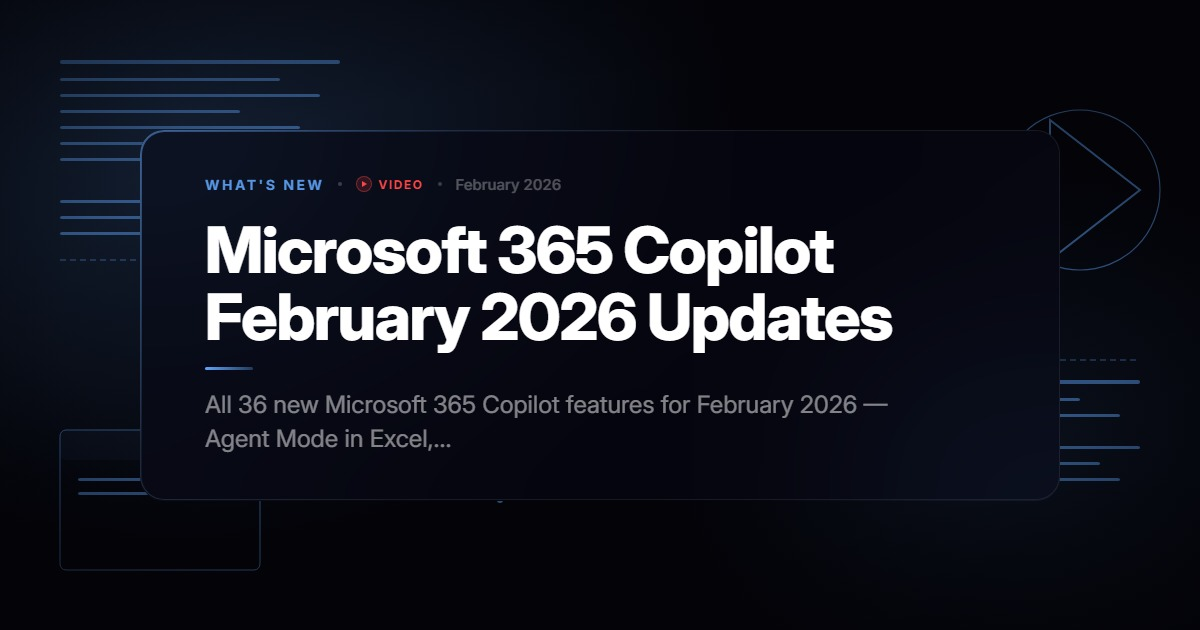
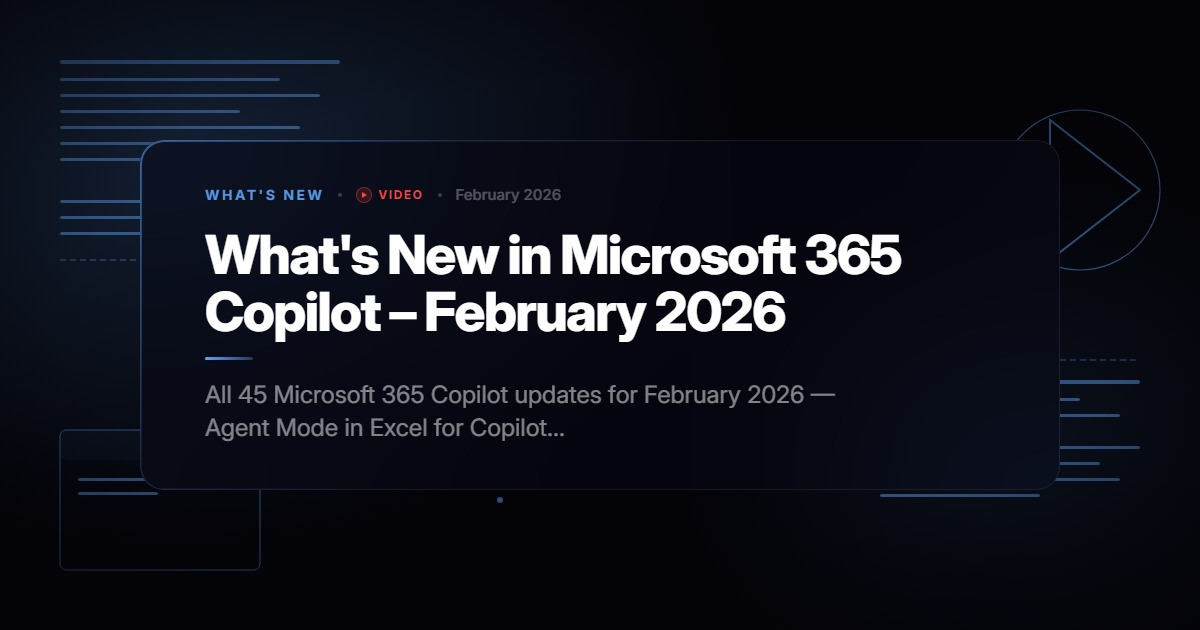
seo: Add FAQPage schema, lastmod, OG images for all 4 What's New posts
- Added FAQ structured data (4-5 questions each) for Google rich snippets
- Added lastmod: 2026-04-30 for dateModified in BlogPosting schema
- Generated April OG image (was missing)
- Regenerated Jan/Feb/Mar OG images (titles changed from enrichment)

diff --git a/content/blog/microsoft-365-copilot-april-2026-updates.md b/content/blog/microsoft-365-copilot-april-2026-updates.md
@@ -2,6 +2,7 @@
 title: "What's New in Microsoft 365 Copilot – April 2026 | 41 Updates You Shouldn't Miss"
 description: "All 41 Microsoft 365 Copilot updates for April 2026 — PowerPoint Agent, Excel Agent, Hey Copilot wake word, MCP connectors, Planner Agent, and more."
 date: 2026-04-29
+lastmod: 2026-04-30
 youtube_id: ""
 card_tag: "What's New"
 tag_class: "ai"
@@ -10,6 +11,17 @@ tags:
   - microsoft-365
   - copilot
   - news
+faq:
+  - question: "What's new in Microsoft 365 Copilot in April 2026?"
+    answer: "April 2026 brings 41 updates including PowerPoint Agent, Excel Agent, Word Agent, Planner Agent, Hey Copilot wake word on Windows, custom MCP connectors, Purview DLP for prompts, eight new third-party Copilot Connectors, and broader Copilot Dashboard access for smaller tenants."
+  - question: "What is the Hey Copilot wake word?"
+    answer: "Say 'Hey Copilot' to activate real-time voice conversations with the M365 Copilot app on Windows. It activates only when called, respects your organisation's compliance settings, and lets you draft content, analyse data, and get insights without switching windows."
+  - question: "What are MCP connectors in Microsoft 365 Copilot?"
+    answer: "MCP (Model Context Protocol) connectors allow admins to configure custom, real-time federated connections in the Microsoft 365 admin center. Unlike traditional Graph connectors that index data, MCP connectors query external systems on the fly with users authenticating directly."
+  - question: "Do I need a paid licence for the new Copilot agents?"
+    answer: "The PowerPoint Agent, Excel Agent, and Word Agent are available to Microsoft 365 users with or without a paid Copilot licence, though your admin must enable them. The Planner Agent requires a Copilot licence."
+  - question: "What Copilot Connectors were added in April 2026?"
+    answer: "Eight new connectors: GitLab Issues, Asana, Monday.com, Guru, Coda, Zendesk Help Center, Egnyte, and Amazon S3."
 ---
 
 April 2026 is a massive month for Microsoft 365 Copilot with **41 updates** — including three brand-new productivity agents, a wake word for hands-free access, MCP connector support for admins, and a wave of new third-party Copilot Connectors. Some features first appeared in earlier months and are now broadly available or expanded.

diff --git a/content/blog/microsoft-365-copilot-march-2026-updates.md b/content/blog/microsoft-365-copilot-march-2026-updates.md
@@ -2,6 +2,7 @@
 title: "What's New in Microsoft 365 Copilot – March 2026 | 36 Updates You Shouldn't Miss"
 description: "All 36 Microsoft 365 Copilot updates for March 2026 — Excel editing for Copilot Chat users, scheduling from chat, PowerPoint editing, new connectors, admin controls, and more."
 date: 2026-03-17
+lastmod: 2026-04-30
 youtube_id: "FHD3Sez_MeU"
 card_tag: "What's New"
 tag_class: "ai"
@@ -10,6 +11,15 @@ tags:
   - microsoft-365
   - copilot
   - news
+faq:
+  - question: "What's new in Microsoft 365 Copilot in March 2026?"
+    answer: "March 2026 brings 36 updates including Edit with Copilot (Agent Mode) in Excel for all users, scheduling meetings from chat, Copilot editing PowerPoint presentations, Word Agent, SharePoint List Agent, voice support, audio meeting overviews, and five new Copilot Connectors."
+  - question: "How do I schedule a meeting with Copilot?"
+    answer: "Ask Copilot to schedule a meeting with colleagues directly from chat. It will find available times, book rooms, draft agendas, and send invites — all within the chat experience."
+  - question: "Can Copilot edit my PowerPoint presentation?"
+    answer: "Yes. Copilot in PowerPoint lets you create, edit, and refine presentations through natural conversation directly in the presentation. It connects to your brand kit for templates, images, and compliance checking. Available to Microsoft 365 Copilot-licensed users."
+  - question: "What is the Word Agent in Microsoft 365 Copilot?"
+    answer: "Word Agent helps you create Word files directly from the M365 Copilot app. It handles research, structure, and formatting for long-form work like strategic plans, policy documents, and technical papers. Available with or without a paid licence."
 ---
 
 March 2026 is a huge month for Microsoft 365 Copilot with **36 updates** — from **Edit with Copilot in Excel** for Copilot Chat users, to **meeting scheduling**, **PowerPoint editing**, **voice and memory improvements**, **new connectors**, and **admin controls**. Some features are available now, while others are still rolling out.

diff --git a/content/blog/microsoft-365-copilot-february-2026-updates.md b/content/blog/microsoft-365-copilot-february-2026-updates.md
@@ -2,6 +2,7 @@
 title: "What's New in Microsoft 365 Copilot – February 2026 | 45 Updates You Shouldn't Miss"
 description: "All 45 Microsoft 365 Copilot updates for February 2026 — Agent Mode in Excel for Copilot Chat users, Copilot Pages upgrades, Outlook expansion, new connectors, and more."
 date: 2026-02-23
+lastmod: 2026-04-30
 youtube_id: "TKr-WB38ixQ"
 card_tag: "What's New"
 tag_class: "ai"
@@ -10,6 +11,15 @@ tags:
   - microsoft-365
   - copilot
   - news
+faq:
+  - question: "What's new in Microsoft 365 Copilot in February 2026?"
+    answer: "February 2026 brings 45 updates including Agent Mode in Excel for all users, Copilot Pages that auto-generate and can be modified from chat, Facilitator in Teams meetings, Designer in M365 Copilot, voice Q&A during Read Aloud in Word, eight new Copilot Connectors, and more."
+  - question: "Can I summarise emails in Outlook without a Copilot licence?"
+    answer: "Yes. Starting February 2026, users without a paid Microsoft 365 Copilot licence can summarise emails in a single click using Copilot Chat in both Classic and New Outlook for Windows."
+  - question: "What is the Facilitator agent in Microsoft Teams?"
+    answer: "Facilitator helps meeting participants manage tasks and create documents during meetings. It captures action items automatically, lets you assign tasks that sync to Planner, and can draft documents based on the meeting discussion."
+  - question: "What Copilot Connectors were added in February 2026?"
+    answer: "Eight new connectors: Dropbox, Miro, ServiceNow Knowledge templates, ServiceNow Tickets status updates, Aha!, Shortcut, GitLab Merge Requests, and Bitbucket Pull Requests."
 ---
 
 February 2026 is a huge month for Microsoft 365 Copilot with **45 updates** — from **Agent Mode in Excel** reaching Copilot Chat users without a paid licence, to **Copilot Pages getting much smarter**, **Outlook expanding to full inbox and calendar grounding**, and **eight new Copilot Connectors**. Some features are available now, while others are currently rolling out.

diff --git a/content/blog/microsoft-365-copilot-january-2026-updates.md b/content/blog/microsoft-365-copilot-january-2026-updates.md
@@ -2,6 +2,7 @@
 title: "What's New in Microsoft 365 Copilot – January 2026 | 30 Updates You Shouldn't Miss"
 description: "All 30 Microsoft 365 Copilot updates for January 2026 — Writing Coaching in Word, Model Selector, Agent Mode in Excel, video creation upgrades, and more."
 date: 2026-01-18
+lastmod: 2026-04-30
 youtube_id: "iDKpW_F18YI"
 card_tag: "What's New"
 tag_class: "ai"
@@ -10,6 +11,15 @@ tags:
   - microsoft-365
   - copilot
   - news
+faq:
+  - question: "What's new in Microsoft 365 Copilot in January 2026?"
+    answer: "January 2026 brings 30 updates including Writing Coaching in Word, a Model Selector with GPT-5, Agent Mode in Excel, video creation from prompts, Calendar Search, GPT-5 in Agent Builder, Copilot Notebooks sharing, and voice support in Word and PowerPoint."
+  - question: "How do I use the Model Selector in Microsoft 365 Copilot?"
+    answer: "The Model Selector gives you three modes: Auto (default — system decides), Quick response (answers right away), and Think deeper (reasons longer for better answers). It is part of the GPT-5 experience in Microsoft 365 Copilot."
+  - question: "Can I use Agent Mode in Excel without a Copilot licence?"
+    answer: "Agent Mode in Excel was initially rolling out for paid Copilot users in January 2026. It later became available for Copilot Chat users without a paid licence in subsequent months."
+  - question: "What is the Library in the Microsoft 365 Copilot app?"
+    answer: "Library is a central, visual-first space in the Microsoft 365 Copilot app where you can access Copilot-generated content like images and pages, as well as content shared with you by colleagues."
 ---
 
 January 2026 opens with **30 Microsoft 365 Copilot updates** — from **Writing Coaching in Word** and a new **Model Selector**, to **Agent Mode in Excel**, richer **video creation**, smarter **Copilot Search**, and better sharing across notebooks and pages. Most features are available now, while a second wave is currently rolling out.
